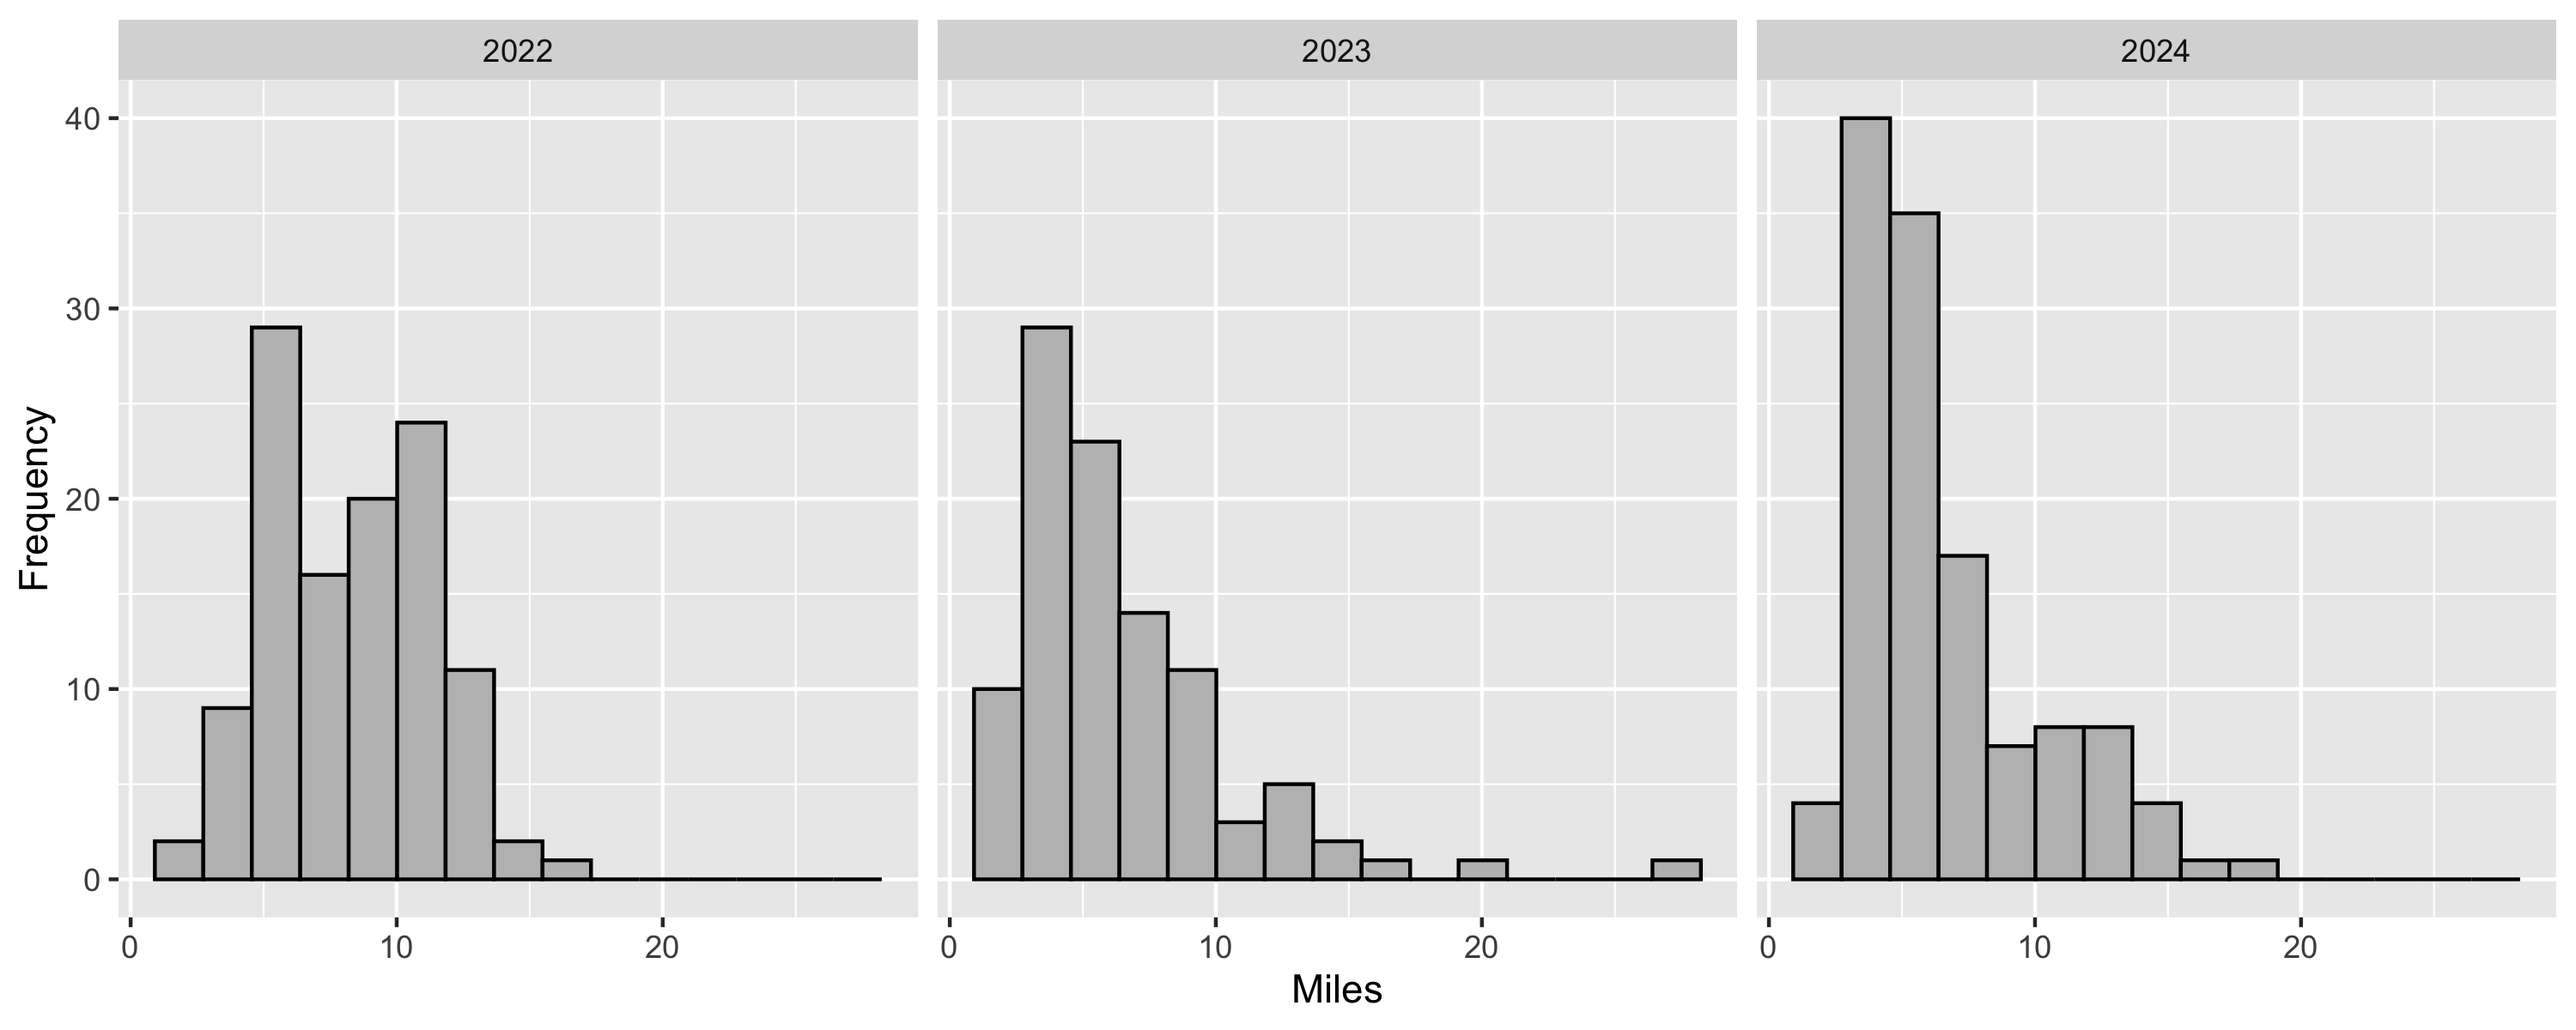
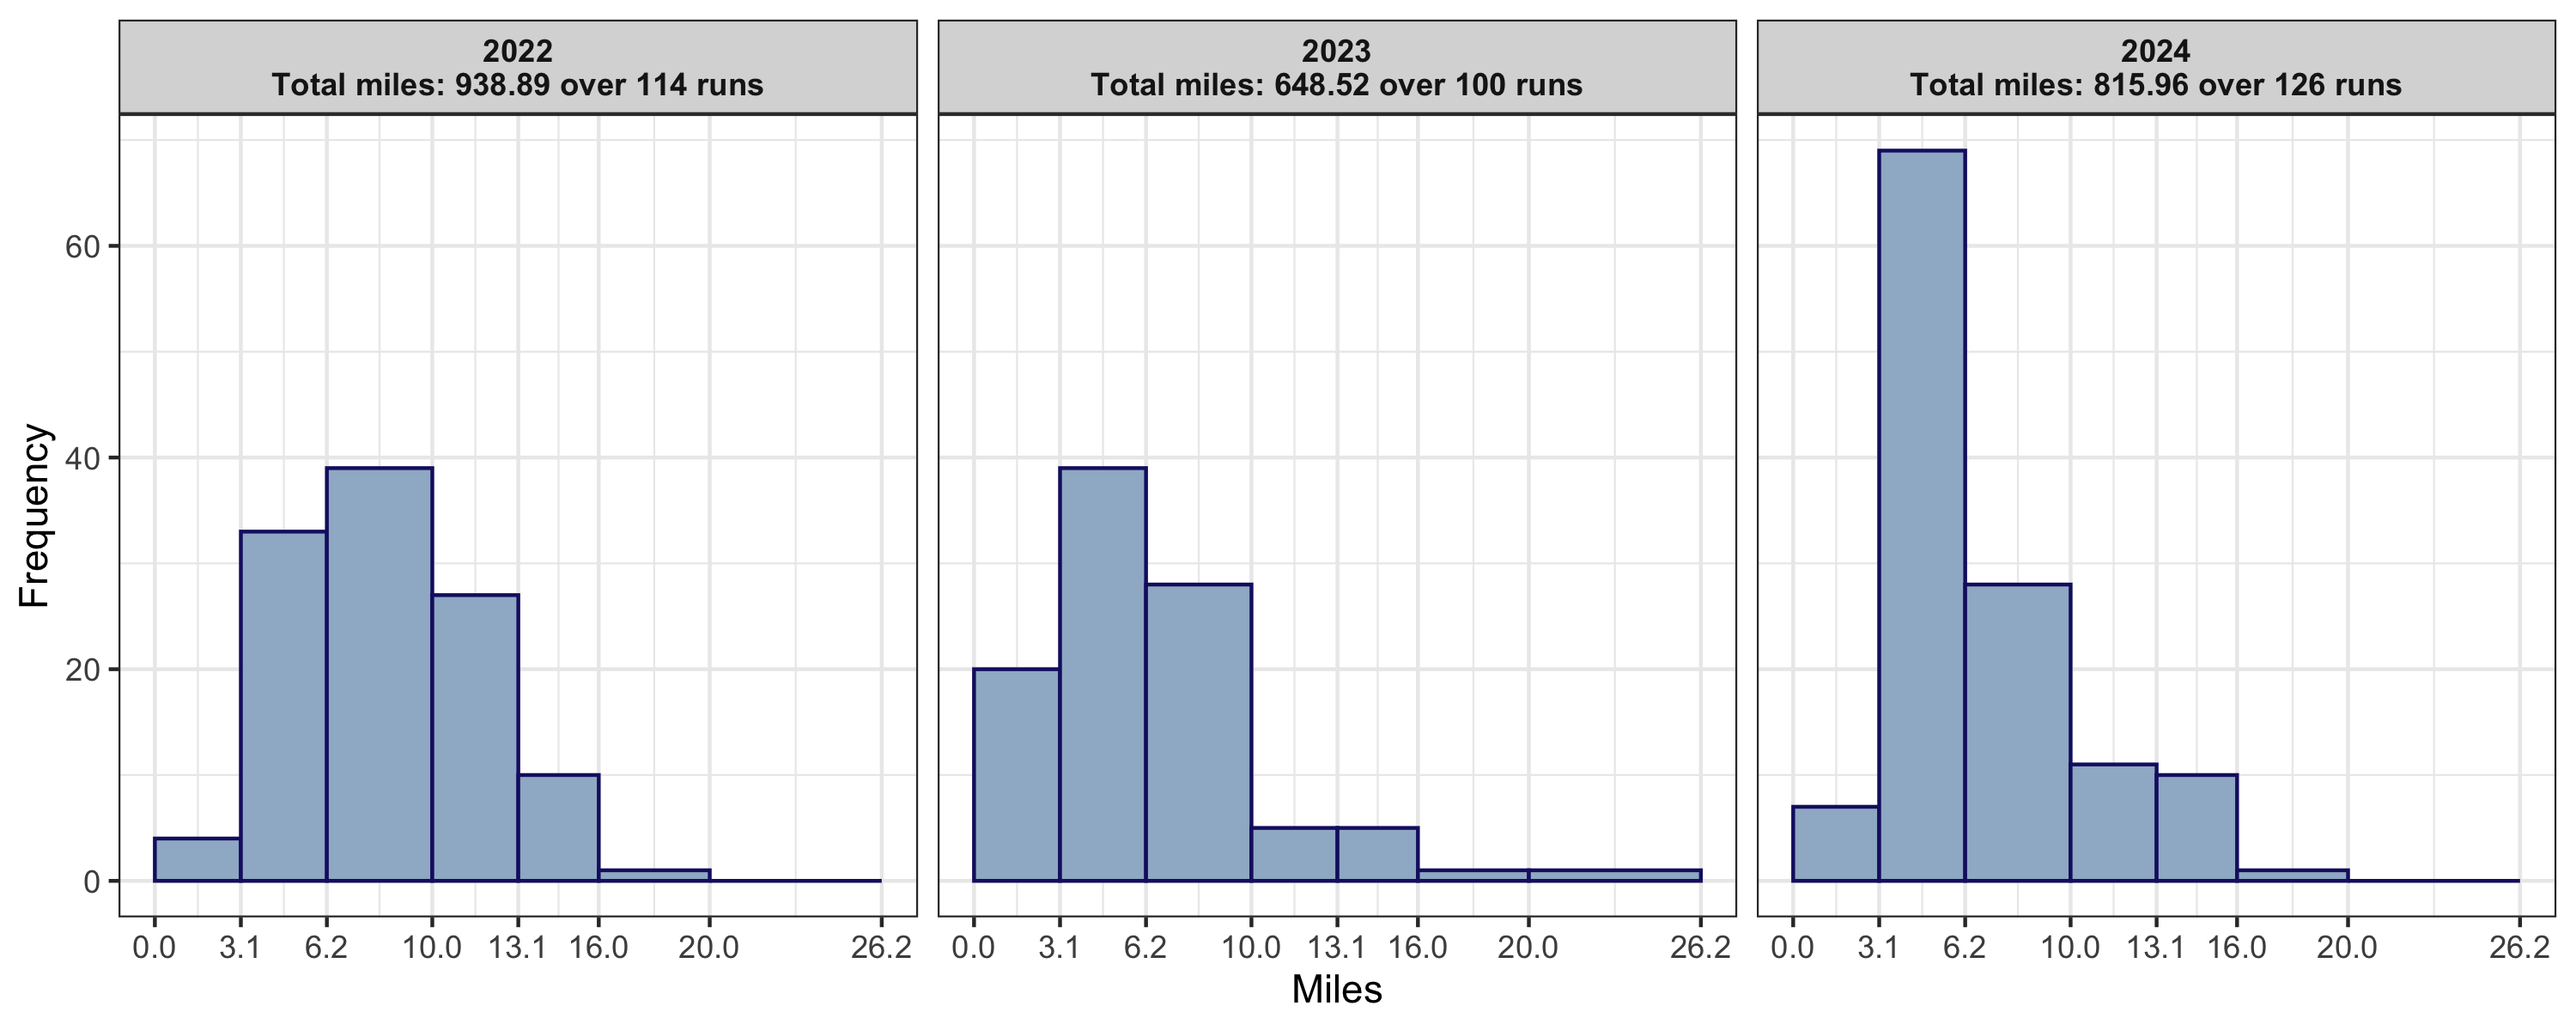
10/25/24

diff --git a/README.md b/README.md
@@ -15,7 +15,7 @@ runningData$Average_Pace <- as.POSIXct(runningData$Average_Pace, format = "%M:%S
 # Plots 
 library(ggplot2); library(ggpubr); library(scales); library(plotly)
 
-plotSettings <- list(theme_minimal(), geom_line(color="gray70"), geom_point(aes(color=Treadmill_Road)), scale_color_manual(values=c(alpha("green3", 0.8), alpha("orange3", 0.8), alpha("dodgerblue3", 0.8))), theme(plot.title=element_text(hjust=0.5)), theme(legend.position="none"), scale_x_date(date_breaks="1 month", date_labels="%B-%y"), theme(axis.text.x=element_text(angle=45, vjust=1, hjust=1)))
+plotSettings <- list(theme_minimal(), geom_line(color = "gray70"), geom_point(aes(color = Treadmill_Road)), scale_color_manual(values = c(alpha("green3", 0.8), alpha("orange3", 0.8), alpha("dodgerblue3", 0.8))), theme(plot.title = element_text(hjust=0.5)), theme(legend.position = "none"), scale_x_date(date_breaks = "1 month", date_labels="%B-%y"), theme(axis.text.x=element_text(angle=45, vjust=1, hjust=1)))
 runningData$PlotText <- paste(format(runningData$Date, format = "%B %d, %Y"), paste(runningData$Miles, "miles"), paste(format(runningData$Average_Pace, "%M:%S"), "pace"), sep = "\n")
 p1 <- ggplot(runningData, aes(x = Date, y = Miles)) + geom_hline(yintercept = 13.1, linetype = "dotted", color = "mistyrose4") + geom_text(label = "13.1 (half marathon)", x = as.Date("2021-11-30"), y = 13.8, color = "mistyrose4", size = 2.5) + labs(y = "Distance (miles)", title = "How far I ran") + plotSettings + scale_y_continuous(breaks = seq(0, 30, 2))
 p2 <- ggplot(runningData, aes(x = Date, y = Average_Pace)) + labs(y = "Minutes", title = "Average pace (time per mile)") + scale_y_datetime(breaks = date_breaks("1 mins"), date_labels = "%M:%S") + labs(color = "Type of run") + plotSettings +  theme(legend.position = c(0.05, 0.2), legend.background = element_rect(size = 0.1, linetype = "solid", color = "black"), legend.margin = margin(2, 3, 2, 3), legend.title = element_text(size = 9, face = "bold"), legend.text = element_text(size = 8)) + guides(color = guide_legend(override.aes = list(size = 1)))
@@ -28,7 +28,12 @@ ggarrange(p1, p2, nrow = 2)
 
 ``` r
 runningData$Year <- format(runningData$Date, "%Y")
-ggplot(runningData[runningData$Year > "2021",], aes(x = Miles)) + geom_histogram(color = "black", fill = "gray", bins = 15) + facet_grid(. ~ Year) + ylab("Frequency")
+milesPerYear <- aggregate(Miles ~ Year, data = runningData, FUN = sum)
+runsPerYear <- table(runningData$Year)
+runningData$Year <- factor(runningData$Year, labels = paste(milesPerYear$Year, "\nTotal miles: ", round(milesPerYear$Miles, 2), " over ", runsPerYear, " runs", sep = ""))
+
+breaks <- c(0, 3.1, 6.2, 10, 13.1, 16, 20, 26.2)
+ggplot(runningData[- grep("2021", runningData$Year),], aes(x = Miles)) + geom_histogram(color = "midnightblue", fill = "slategray3", breaks = breaks) + facet_grid(. ~ Year) + ylab("Frequency") + scale_x_continuous(breaks = breaks) + theme_bw() + theme(strip.text.x = element_text(face = "bold"))
 ```
 
 ![](Plots/README-Running-Plots-2-1.png)<!-- -->
@@ -41,7 +46,7 @@ Total miles since 11/29/21:
 sum(runningData$Miles)
 ```
 
-    ## [1] 2467.15
+    ## [1] 2473.82
 
 Average distance over last ten runs:
 
@@ -49,4 +54,4 @@ Average distance over last ten runs:
 mean(tail(runningData$Miles, 10))
 ```
 
-    ## [1] 8.457
+    ## [1] 8.748
